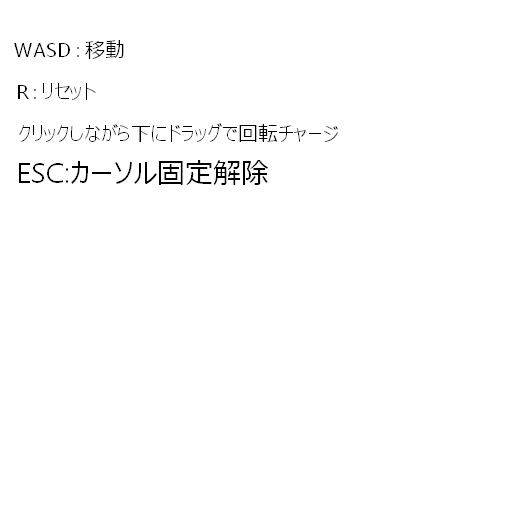
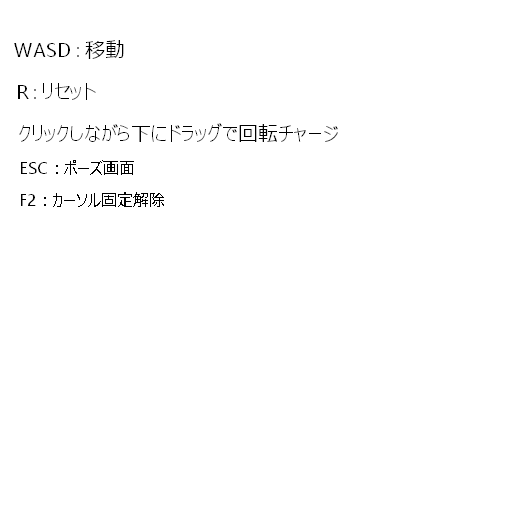
戦闘シーンでのプレイヤーの行動範囲を設定。ポーズ画面の実装。タワーと敵のバグを直そうとして敵の移動速度が速くなるバグが新たに追加された。

Changed region(s): [[0.0312, 0.3125, 0.5312, 0.4062]]

diff --git a/Scene/SceneManager.cpp b/Scene/SceneManager.cpp
@@ -5,6 +5,7 @@
 
 bool SceneManager::blackStartFlag = false;
 bool SceneManager::hitEnemyToPlayer = false;
+bool SceneManager::BattleInit = false;
 bool SceneManager::WinBattle = false;
 
 SceneManager::SceneManager()
@@ -39,11 +40,12 @@ void SceneManager::Initialize(DirectXCommon* dxCommon)
 	endScene->Initialize(dxCommon);
 	gameScene = new GameScene;
 	gameScene->Initialize(dxCommon);
-	//batlleScene = new BatlleScene;
-	//batlleScene->Initialize(dxCommon);
+	batlleScene = new BatlleScene;
+	batlleScene->Initialize(dxCommon);
 
-	sceneNo = SCENE_TITLE;
+	//sceneNo = SCENE_TITLE;
 	//sceneNo = SCENE_GAME;
+	sceneNo = SCENE_BATTLE;
 	post = new PostEffect;
 	post->Initialize();
 

diff --git a/Collider/Collision.cpp b/Collider/Collision.cpp
@@ -278,3 +278,11 @@ bool Collision::CheckBox2Box(const DirectX::XMFLOAT3 pos1, const DirectX::XMFLOA
 
 	return disX1 > disX2 && disX4 > disX3 && disY1 > disY2 && disY4 > disY3 && disZ1 > disZ2 && disZ4 > disZ3;
 }
+
+float Collision::CheckDistance(const DirectX::XMFLOAT3 pos1, const DirectX::XMFLOAT3 pos2)
+{
+	float distance = sqrtf(((pos1.x - pos2.x) * (pos1.x - pos2.x)) +
+		((pos1.z - pos2.z) * (pos1.z - pos2.z)));
+
+	return distance;
+}

diff --git a/Collider/Collision.h b/Collider/Collision.h
@@ -76,4 +76,6 @@ public:
 	static bool CheckRay2Sphere(const Ray& lay, const Sphere& sphere, float*distance = nullptr, DirectX::XMVECTOR* inter = nullptr);
 
 	static bool CheckBox2Box(const DirectX::XMFLOAT3 pos1, const DirectX::XMFLOAT3 radius1, const DirectX::XMFLOAT3 pos2, const DirectX::XMFLOAT3 radius2);
+
+	static float CheckDistance(const DirectX::XMFLOAT3 pos1, const DirectX::XMFLOAT3 pos2);
 };

diff --git a/ObjectOBJ/ModelManager.cpp b/ObjectOBJ/ModelManager.cpp
@@ -20,6 +20,7 @@ void ModelManager::SetModelName()
 	modelname.push_back("ground");
 	modelname.push_back("suana");
 	modelname.push_back("shadow");
+	modelname.push_back("area");
 }
 
 void ModelManager::Initialize()

diff --git a/SpriteManager.cpp b/SpriteManager.cpp
@@ -46,4 +46,6 @@ void SpriteManager::Initialize()
 	Sprite::LoadTexture(24, L"Resources/efect_4.png");
 	Sprite::LoadTexture(25, L"Resources/efect_5.png");
 
+	//UI
+	Sprite::LoadTexture(26, L"Resources/pose.png");
 }
